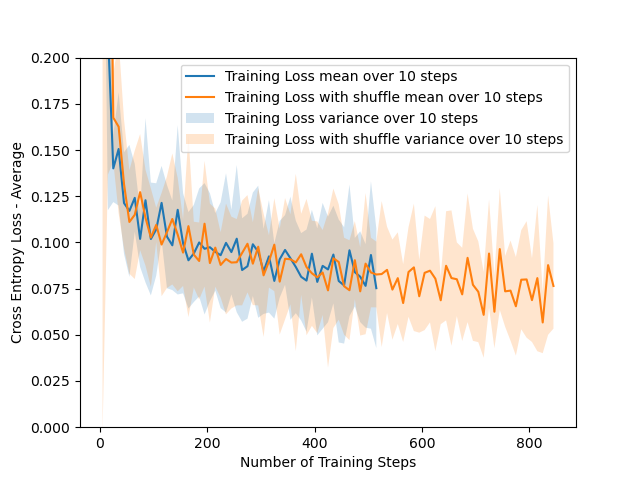
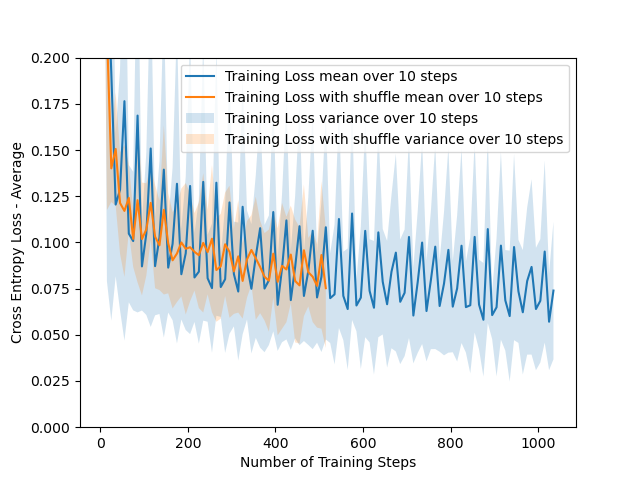
finished with code

diff --git a/assignment1/task3a.py b/assignment1/task3a.py
@@ -13,19 +13,26 @@ def cross_entropy_loss(targets: np.ndarray, outputs: np.ndarray):
         Cross entropy error (float)
     """
     # TODO implement this function (Task 3a)
+
+    C_n = -np.sum(targets*np.log(outputs), axis=1)
+    C = np.mean(C_n)
+
+
+
+
     assert targets.shape == outputs.shape,\
         f"Targets shape: {targets.shape}, outputs: {outputs.shape}"
-    raise NotImplementedError
+    return C
 
 
 class SoftmaxModel:
 
     def __init__(self, l2_reg_lambda: float):
         # Define number of input nodes
-        self.I = None
+        self.I = 785
 
         # Define number of output nodes
-        self.num_outputs = None
+        self.num_outputs = 10
         self.w = np.zeros((self.I, self.num_outputs))
         self.grad = None
 
@@ -38,8 +45,14 @@ class SoftmaxModel:
         Returns:
             y: output of model with shape [batch size, num_outputs]
         """
+
+        #sig = 1/(1 + np.exp(-X.dot(self.w))) #2a    
+
         # TODO implement this function (Task 3a)
-        return None
+        #print("here we go")
+        #print(np.sum(np.exp(np.dot(X, self.w)),axis=1)[:,None])
+        #print(np.shape(np.sum(np.exp(np.dot(X, self.w)),axis=1)[:,np.newaxis]))
+        return np.exp(np.dot(X, self.w)) / np.sum(np.exp(np.dot(X, self.w)),axis=1)[:,np.newaxis]
 
     def backward(self, X: np.ndarray, outputs: np.ndarray, targets: np.ndarray) -> None:
         """
@@ -51,11 +64,17 @@ class SoftmaxModel:
             targets: labels/targets of each image of shape: [batch size, num_classes]
         """
         # TODO implement this function (Task 3a)
+
+        gradient = np.dot(-X.T, (targets - outputs)) #using example in assignmnet text
+        gradient = gradient + 2*self.l2_reg_lambda*self.w #4b
+        avg_grad = gradient / X.shape[0]        
+        
+
         # To implement L2 regularization task (4b) you can get the lambda value in self.l2_reg_lambda 
         # which is defined in the constructor.
         assert targets.shape == outputs.shape,\
             f"Output shape: {outputs.shape}, targets: {targets.shape}"
-        self.grad = np.zeros_like(self.w)
+        self.grad = avg_grad
         assert self.grad.shape == self.w.shape,\
              f"Grad shape: {self.grad.shape}, w: {self.w.shape}"
 
@@ -71,7 +90,8 @@ def one_hot_encode(Y: np.ndarray, num_classes: int):
     Returns:
         Y: shape [Num examples, num classes]
     """
-    raise NotImplementedError
+    
+    return np.eye(num_classes)[Y.reshape(-1)]
 
 
 def gradient_approximation_test(model: SoftmaxModel, X: np.ndarray, Y: np.ndarray):

diff --git a/assignment1/task3.py b/assignment1/task3.py
@@ -16,8 +16,21 @@ def calculate_accuracy(X: np.ndarray, targets: np.ndarray, model: SoftmaxModel) 
     Returns:
         Accuracy (float)
     """
-    # TODO: Implement this function (task 3c)
-    accuracy = 0
+    
+    Y_predict = model.forward(X)
+    #print(np.shape(Y_predict))
+    #print(np.shape(targets))
+
+    #compare and count the correct predictions.
+    #boolPredict = 
+
+    correctArray = (np.argmax(Y_predict,axis=1))  == np.argmax(targets,axis=1)
+    correctCount = np.count_nonzero(correctArray)
+
+    accuracy = correctCount/(X.shape[0])
+
+    #print("acc: ",accuracy)
+
     return accuracy
 
 
@@ -35,9 +48,16 @@ class SoftmaxTrainer(BaseTrainer):
         Returns:
             loss value (float) on batch
         """
-        # TODO: Implement this function (task 3b)
-        loss = 0
-        return loss
+        
+        Y_predict = self.model.forward(X_batch)
+        self.model.backward(X_batch,Y_predict,Y_batch)
+
+        #gradient descent step
+        self.model.w -= learning_rate * self.model.grad  #update weights
+
+        avgLoss = cross_entropy_loss(Y_batch,Y_predict)
+        
+        return avgLoss
 
     def validation_step(self):
         """

diff --git a/assignment1/task2a.py b/assignment1/task2a.py
@@ -51,7 +51,7 @@ class BinaryModel:
         Returns:
             y: output of model with shape [batch size, 1]
         """
-        sig = 1/(1 + np.exp(-X.dot(self.w)))
+        sig = 1/(1 + np.exp(np.dot(-X, self.w)))
 
         return sig
 

diff --git a/assignment1/task2.py b/assignment1/task2.py
@@ -80,7 +80,7 @@ if __name__ == "__main__":
     num_epochs = 500 #changed in 2d
     learning_rate = 0.05
     batch_size = 128
-    shuffle_dataset = True
+    shuffle_dataset = False
 
     # Load dataset
     category1, category2 = 2, 3
